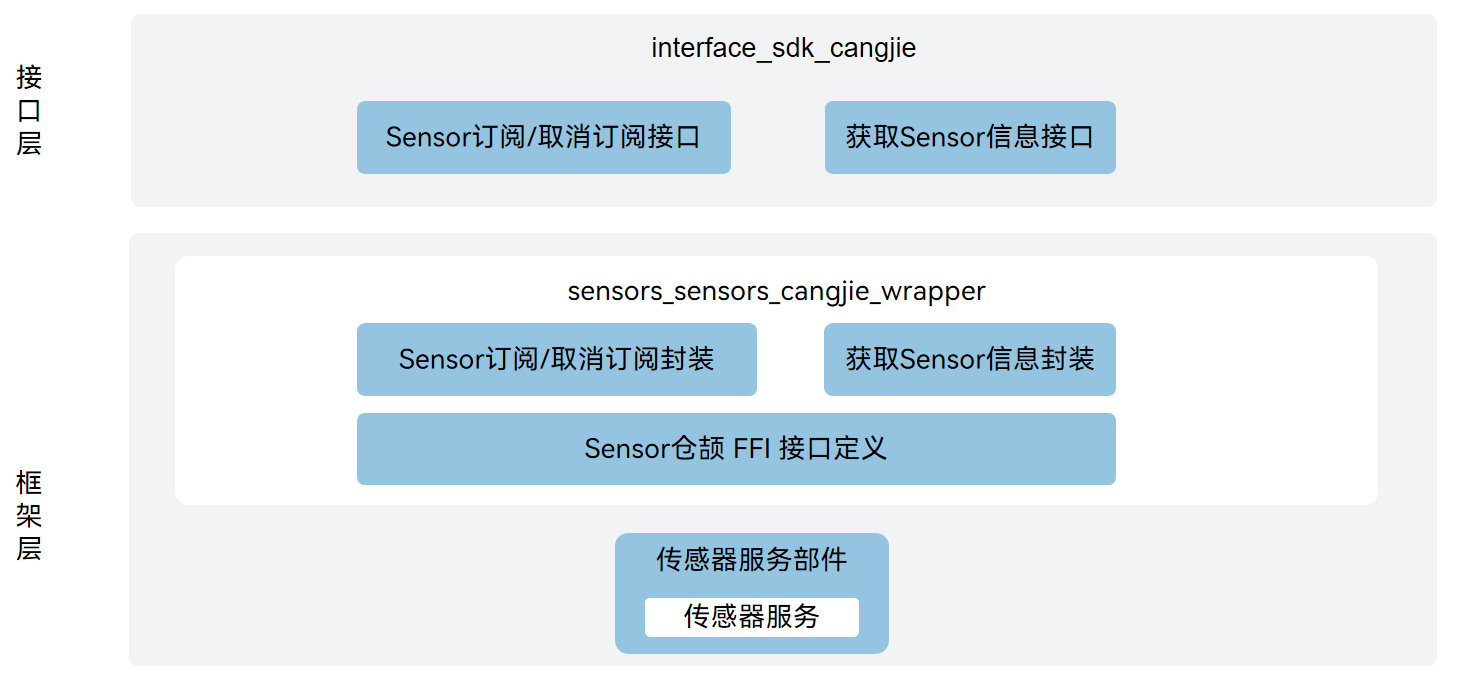
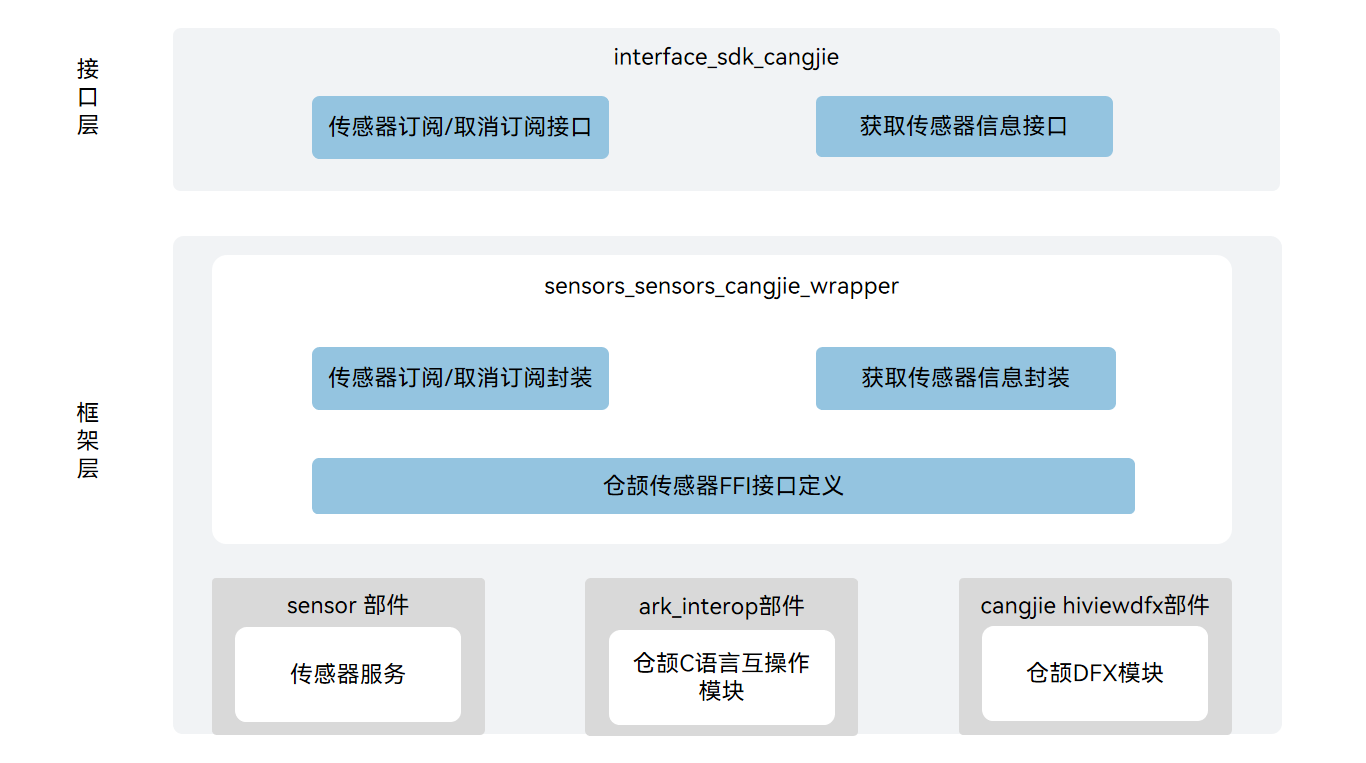
fix readme

diff --git a/README_zh.md b/README_zh.md
@@ -14,16 +14,16 @@
 
 - 泛Sensor服务仓颉接口当前提供以下能力：
 
-  -   Sensor订阅/取消订阅。
-  -   获取Sensor信息。
+  - Sensor订阅/取消订阅。
+  - 获取Sensor信息。
 - 接口封装：使用仓颉实现Sensor服务能力。
-- Sensor仓颉FFI接口定义：负责定义C互操作仓颉接口，用于实现仓颉Sensor能力。
-- 传感器服务：负责提供Sensor基础功能，封装C接口提供给仓颉进行互操作。
+- Sensor仓颉FFI接口定义：负责定义C语言互操作仓颉接口，用于实现仓颉Sensor能力。
+- 传感器服务：负责提供Sensor基础功能，封装C语言接口提供给仓颉进行互操作。
 
 ## 目录
 
 ```
-base/sensors/sensors_cangjie_wrapper     
+base/sensors/sensors_cangjie_wrapper   
 ├── figures               # 存放README中的架构图
 ├── kit                   # Sensor仓颉服务kit化代码
 │   └── SensorServiceKit  # SensorServiceKit代码目录
@@ -34,8 +34,8 @@ base/sensors/sensors_cangjie_wrapper
 
 ## 约束
 
--   要使用Sensor的功能，设备必须具有对应的Sensor器件。
--   针对某些Sensor，开发者需要请求相应的权限，才能获取到相应Sensor的数据。
+- 要使用Sensor的功能，设备必须具有对应的Sensor器件。
+- 针对某些Sensor，开发者需要请求相应的权限，才能获取到相应Sensor的数据。
 
 ## 使用说明
 
@@ -62,3 +62,7 @@ base/sensors/sensors_cangjie_wrapper
 ## 相关仓
 
 [sensors\_sensor](https://gitee.com/openharmony/sensors_sensor/blob/master/README_zh.md)
+
+[cangjie_ark_interop](https://gitcode.com/openharmony-sig/arkcompiler_cangjie_ark_interop/blob/master/README_zh.md)
+
+[hiviewdfx_cangjie_wrapper](https://gitcode.com/openharmony-sig/hiviewdfx_hiviewdfx_cangjie_wrapper/blob/master/README_zh.md)

diff --git a/README.md b/README.md
@@ -17,8 +17,8 @@ As shown in the architecture:
   - subscribing to or unsubscribing from sensor data.
   - obtaining Sensor data.
 - Interface encapsulation: Implement Sensor service capabilities using Cangjie.
-- Sensor Cangjie FFI interface definition: responsible for defining the C interoperability Cangjie interface, used to implement Cangjie Sensor capabilities.
-- Sensor Service: Responsible for providing basic Sensor functions and encapsulating C interfaces for interoperability with Cangjie.
+- Sensor Cangjie FFI interface definition: responsible for defining the C language interoperability Cangjie interface, used to implement Cangjie Sensor capabilities.
+- Sensor Service: Responsible for providing basic Sensor functions and encapsulating C language interfaces for interoperability with Cangjie.
 
 ## Directory Structure
 
@@ -44,7 +44,7 @@ As shown in the diagram, Sensor Service Cangjie provides the following capabilit
 - querying the sensor list.
 - subscribing to or unsubscribing from sensor data.
 
-Please refer to the Sensor related API for details[ohos.sensor(Sensors)](https://gitcode.com/openharmony-sig/arkcompiler_cangjie_ark_interop/blob/master/doc/API_Reference/source_en/apis/SensorServiceKit/cj-apis-sensor.md). 
+Please refer to the Sensor related API for details[ohos.sensor(Sensors)](https://gitcode.com/openharmony-sig/arkcompiler_cangjie_ark_interop/blob/master/doc/API_Reference/source_en/apis/SensorServiceKit/cj-apis-sensor.md).
 For relevant guidance, please refer to[Introduction to Sensor Service Kit Development](https://gitcode.com/openharmony-sig/arkcompiler_cangjie_ark_interop/blob/master/doc/Dev_Guide/source_en/device/sensor/cj-sensor-overview.md).
 
 Compared to ArkTS, the following features are currently not supported:
@@ -61,3 +61,7 @@ Developers are welcome to contribute code, documentation, etc. For specific cont
 ## Repositories Involved
 
 [sensors\_sensor](https://gitee.com/openharmony/sensors_sensor/blob/master/README.md)
+
+[cangjie_ark_interop](https://gitcode.com/openharmony-sig/arkcompiler_cangjie_ark_interop/blob/master/README.md)
+
+[hiviewdfx_cangjie_wrapper](https://gitcode.com/openharmony-sig/hiviewdfx_hiviewdfx_cangjie_wrapper/blob/master/README.md)